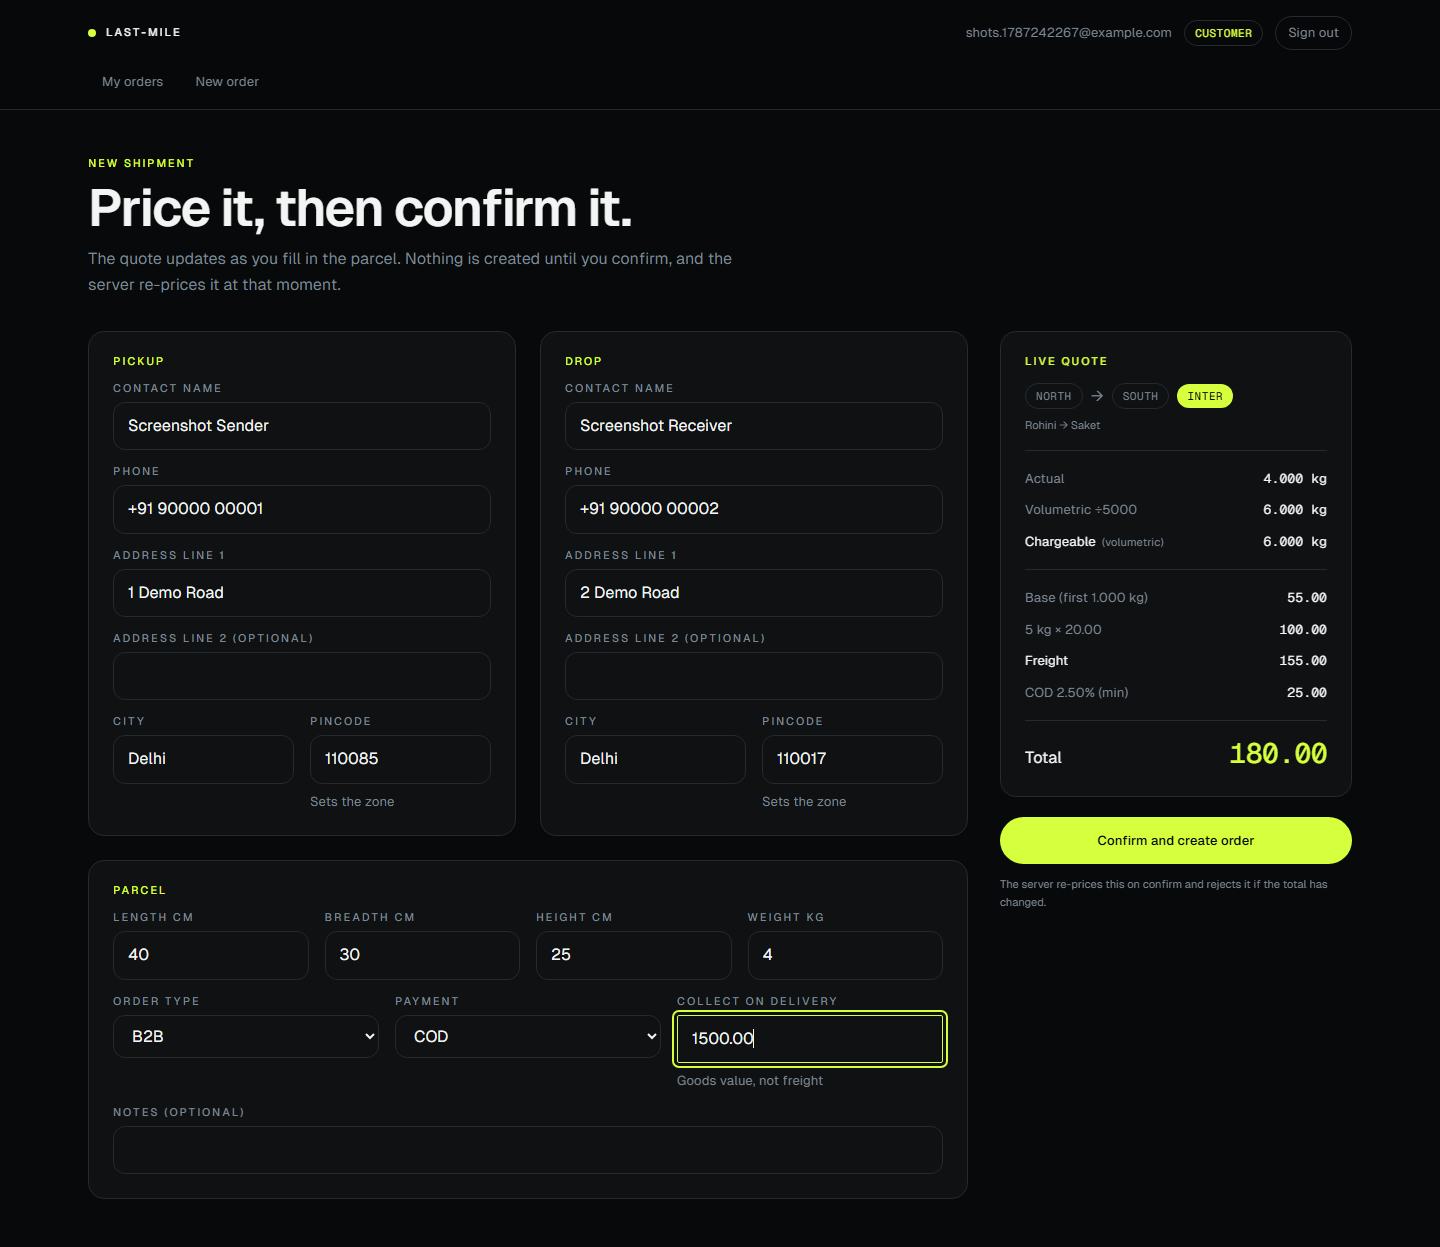
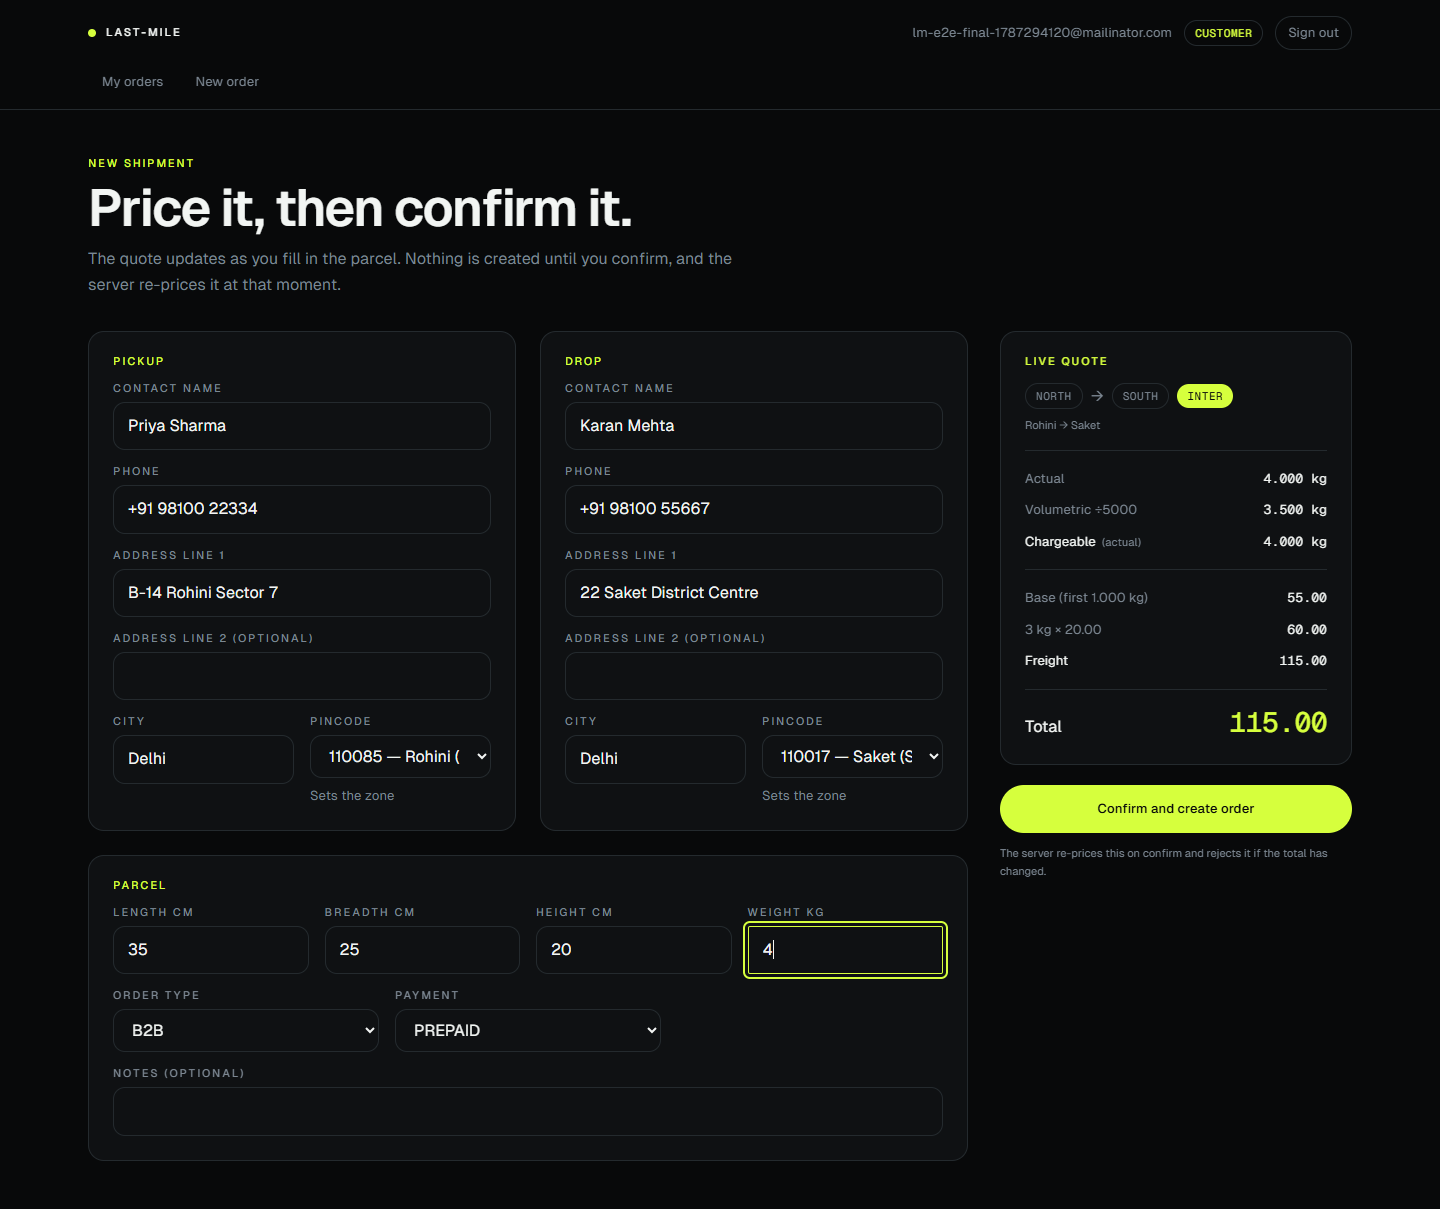
Recapture the order-form screenshots for the pincode picker
page-04 and page-12 still showed the old freeform pincode field. Both
recaptured against the live deployment with the new dropdown, and the
README caption updated to the new example price.

diff --git a/README.md b/README.md
@@ -81,7 +81,8 @@ earlier testing, in case you'd rather not wait on your own mail to arrive.
 Every page below is a real capture of the live deployment — signed in as an
 actual seeded account, showing actual data from testing, not a mock or a
 design file. `page-04` and `page-12` show the quote panel fully resolved to a
-real price (`180.00`), not mid-request.
+real price (`115.00`), not mid-request, and both pincode fields as the
+picker described above rather than free text.
 
 <table>
 <tr>
